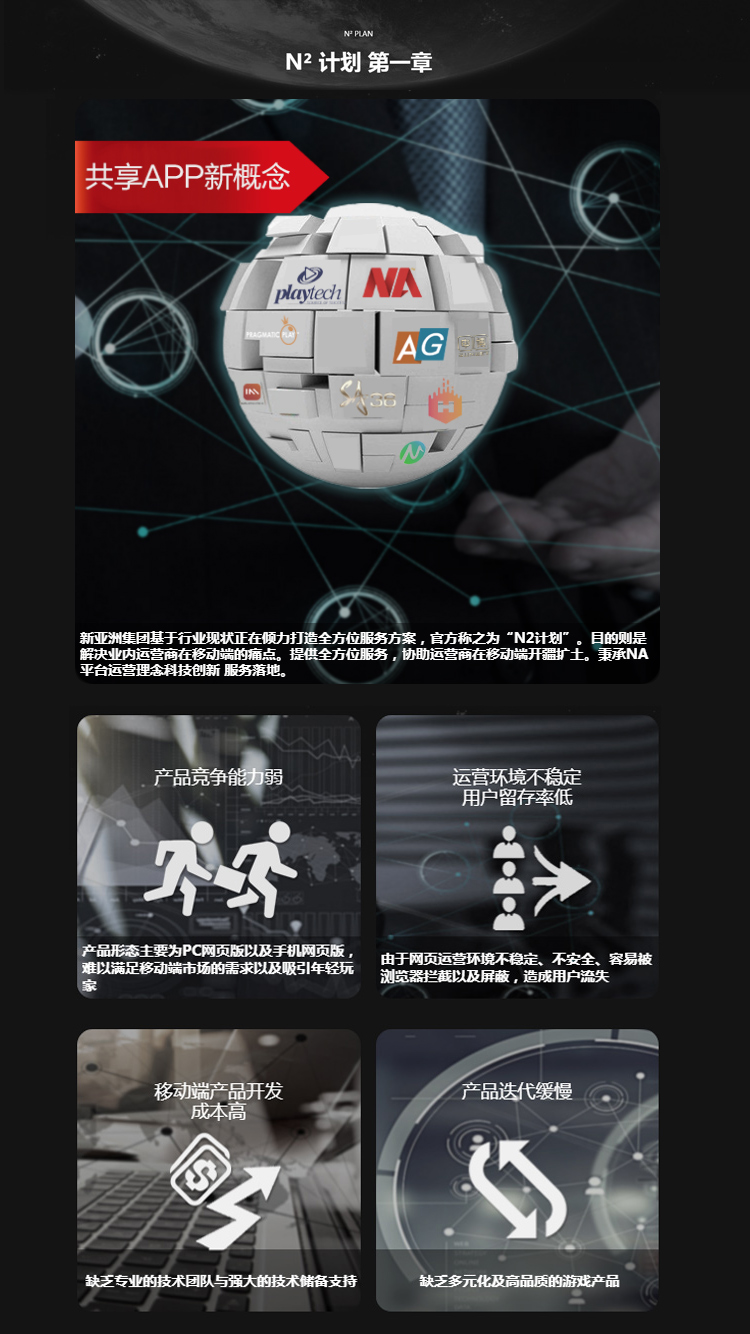
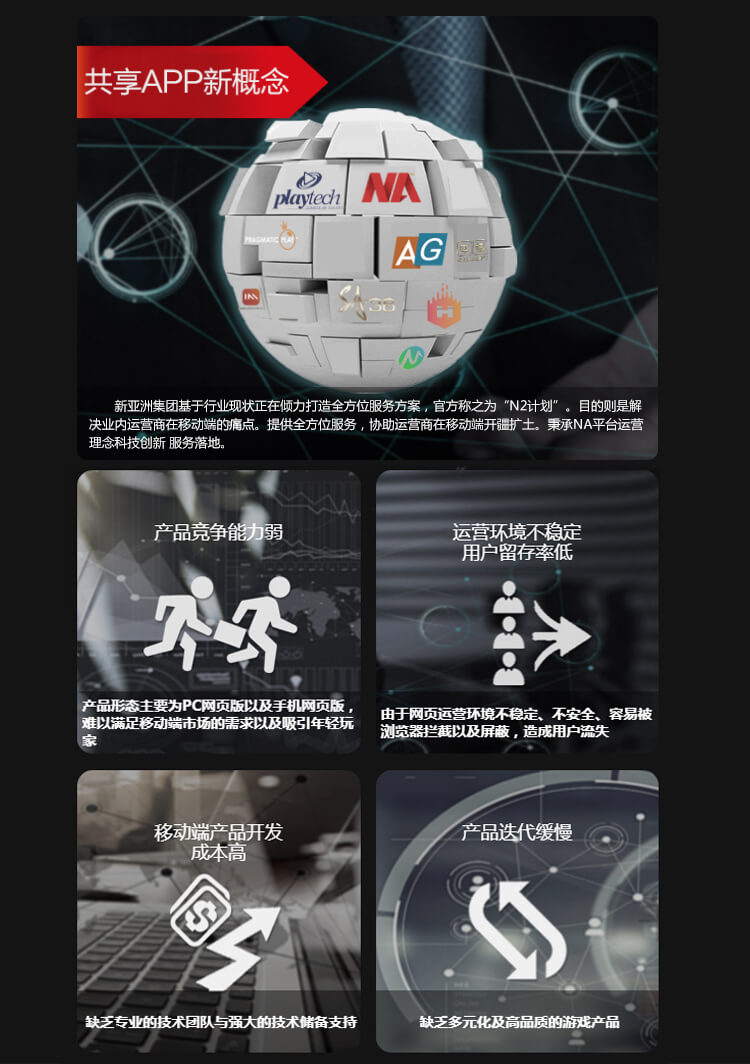
适配

diff --git a/NaWeb/src/components/n22.vue b/NaWeb/src/components/n22.vue
@@ -32,10 +32,10 @@ export default {
   width: 100%;
   height: 100%;
   background: url('../assets/n2-mobile-bg.jpg') no-repeat;
-  background-size: cover;
+  background-size: 100%;
   .-n2-btn{
     position: relative;
-    top: 40%;
+    top: 24%;
     left: 18%;
   }
   .-n2-btn-item{
